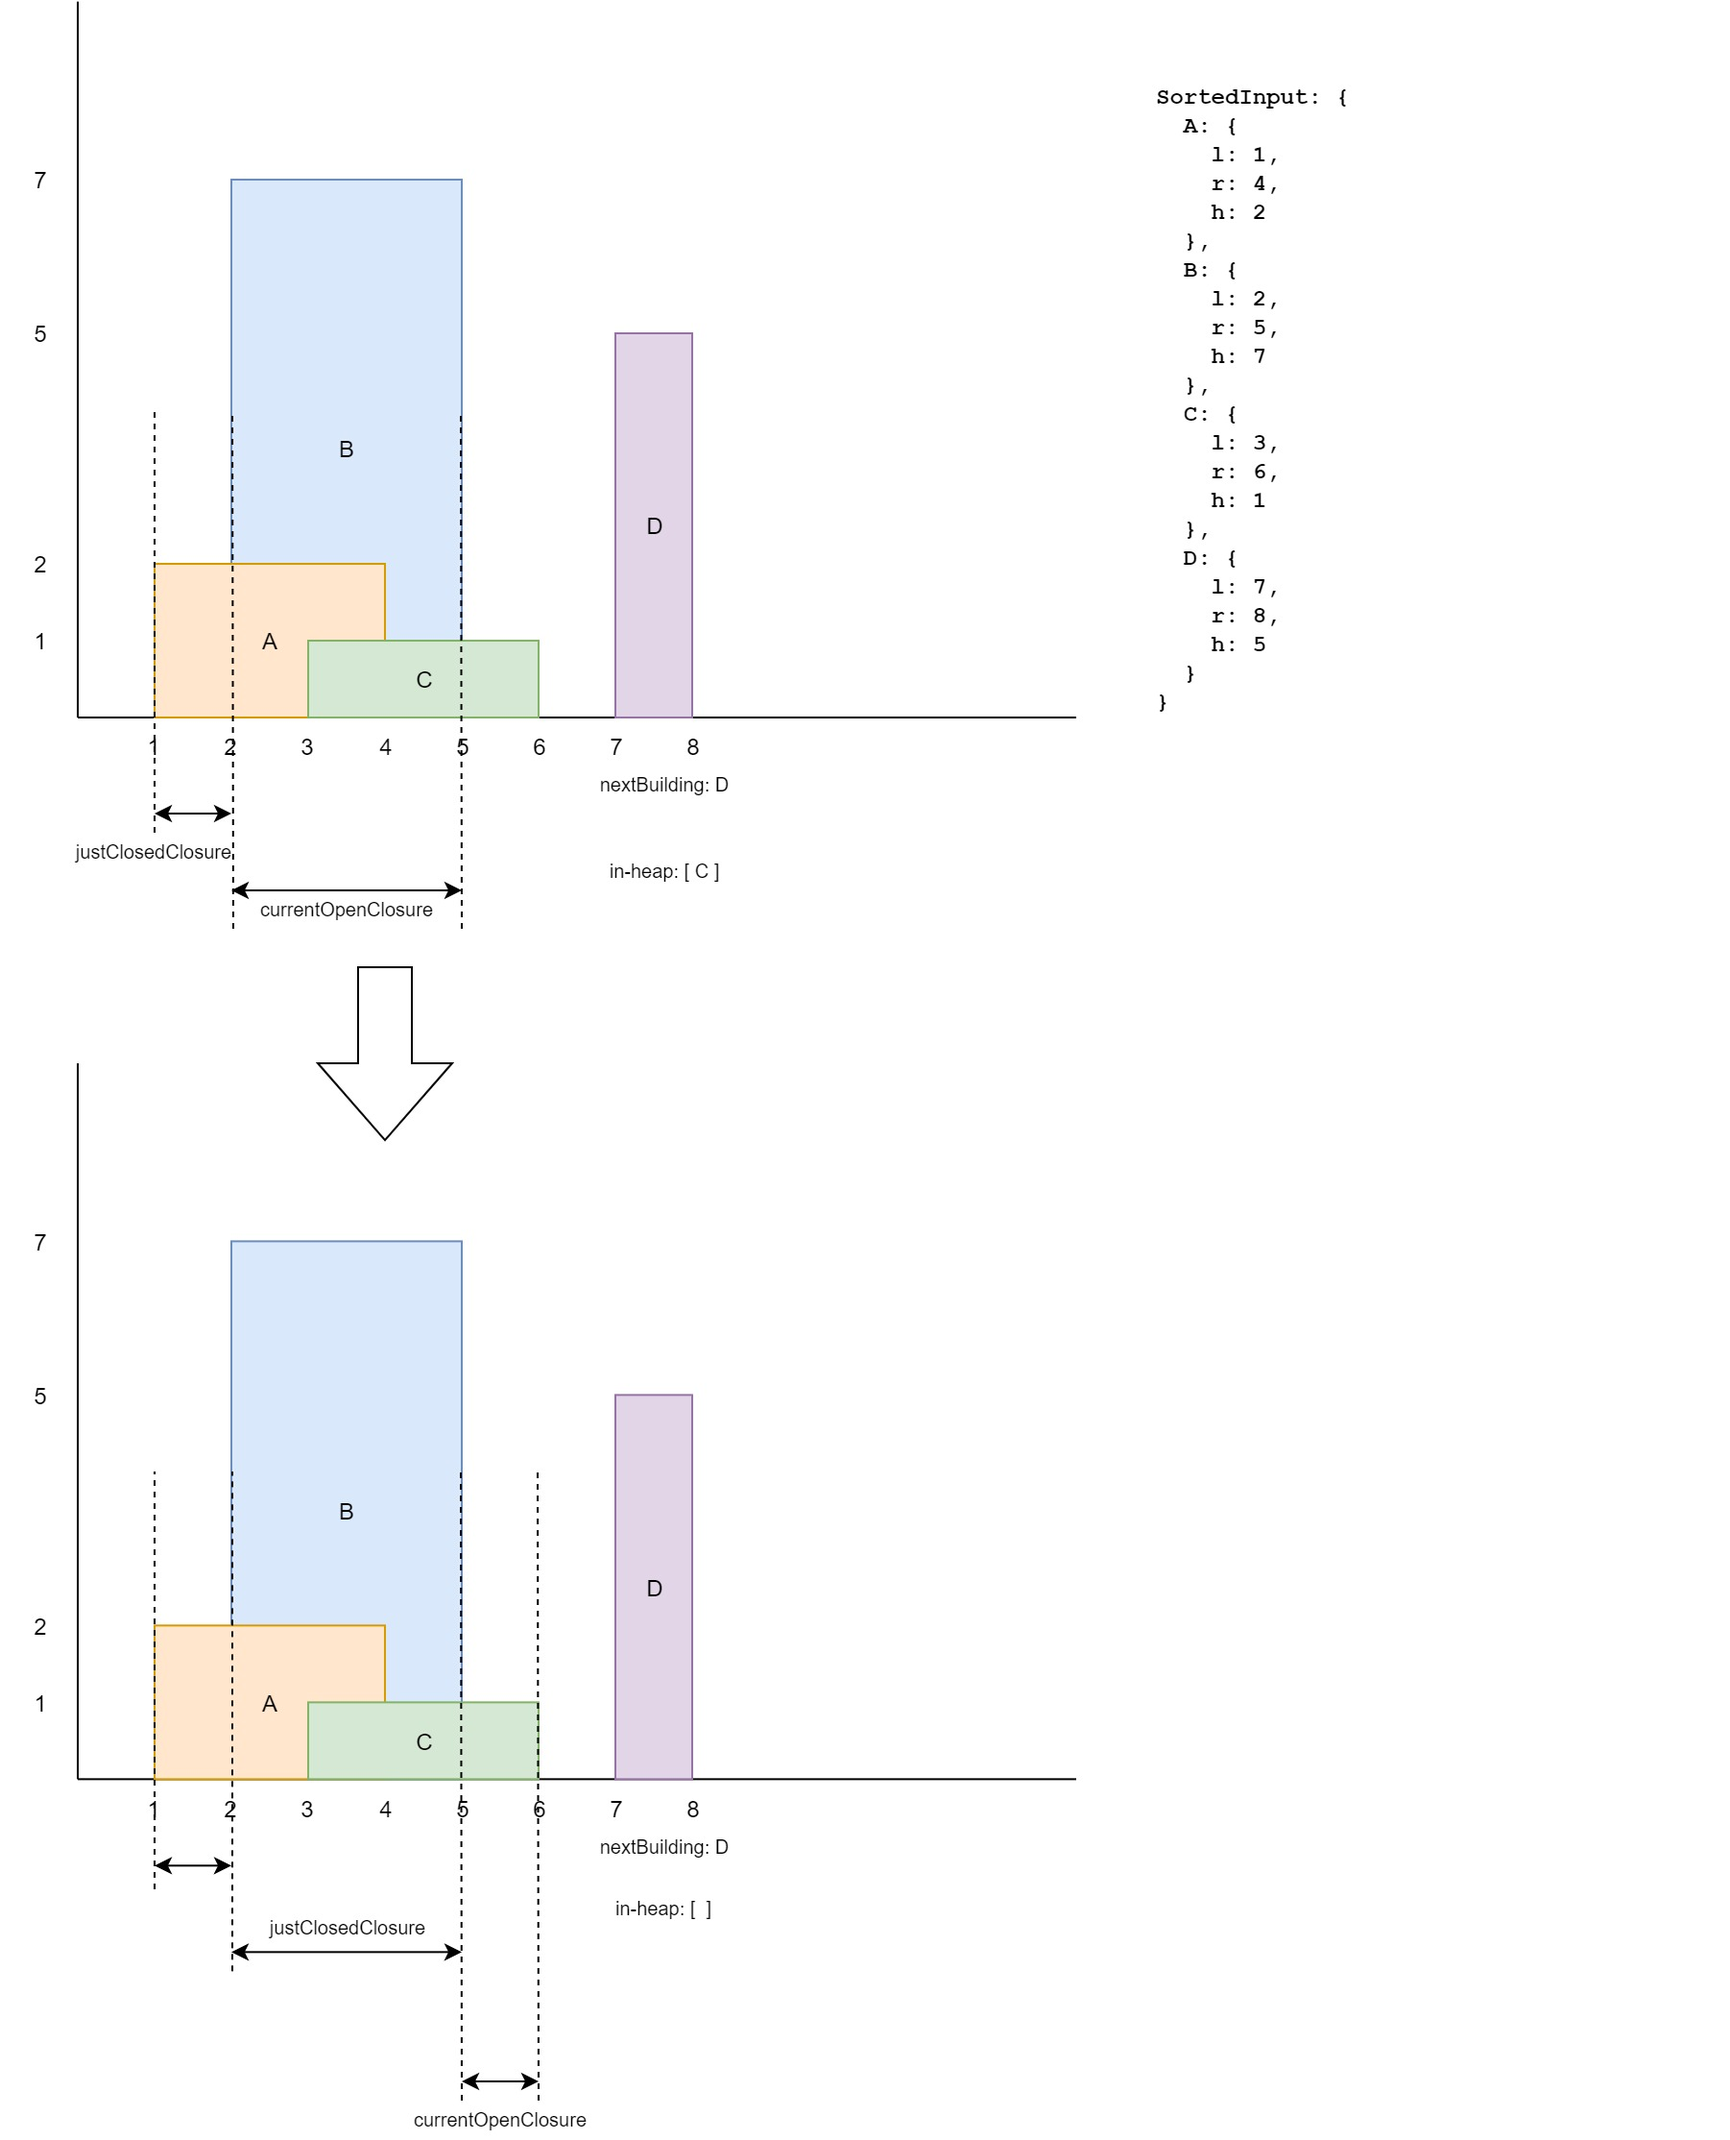
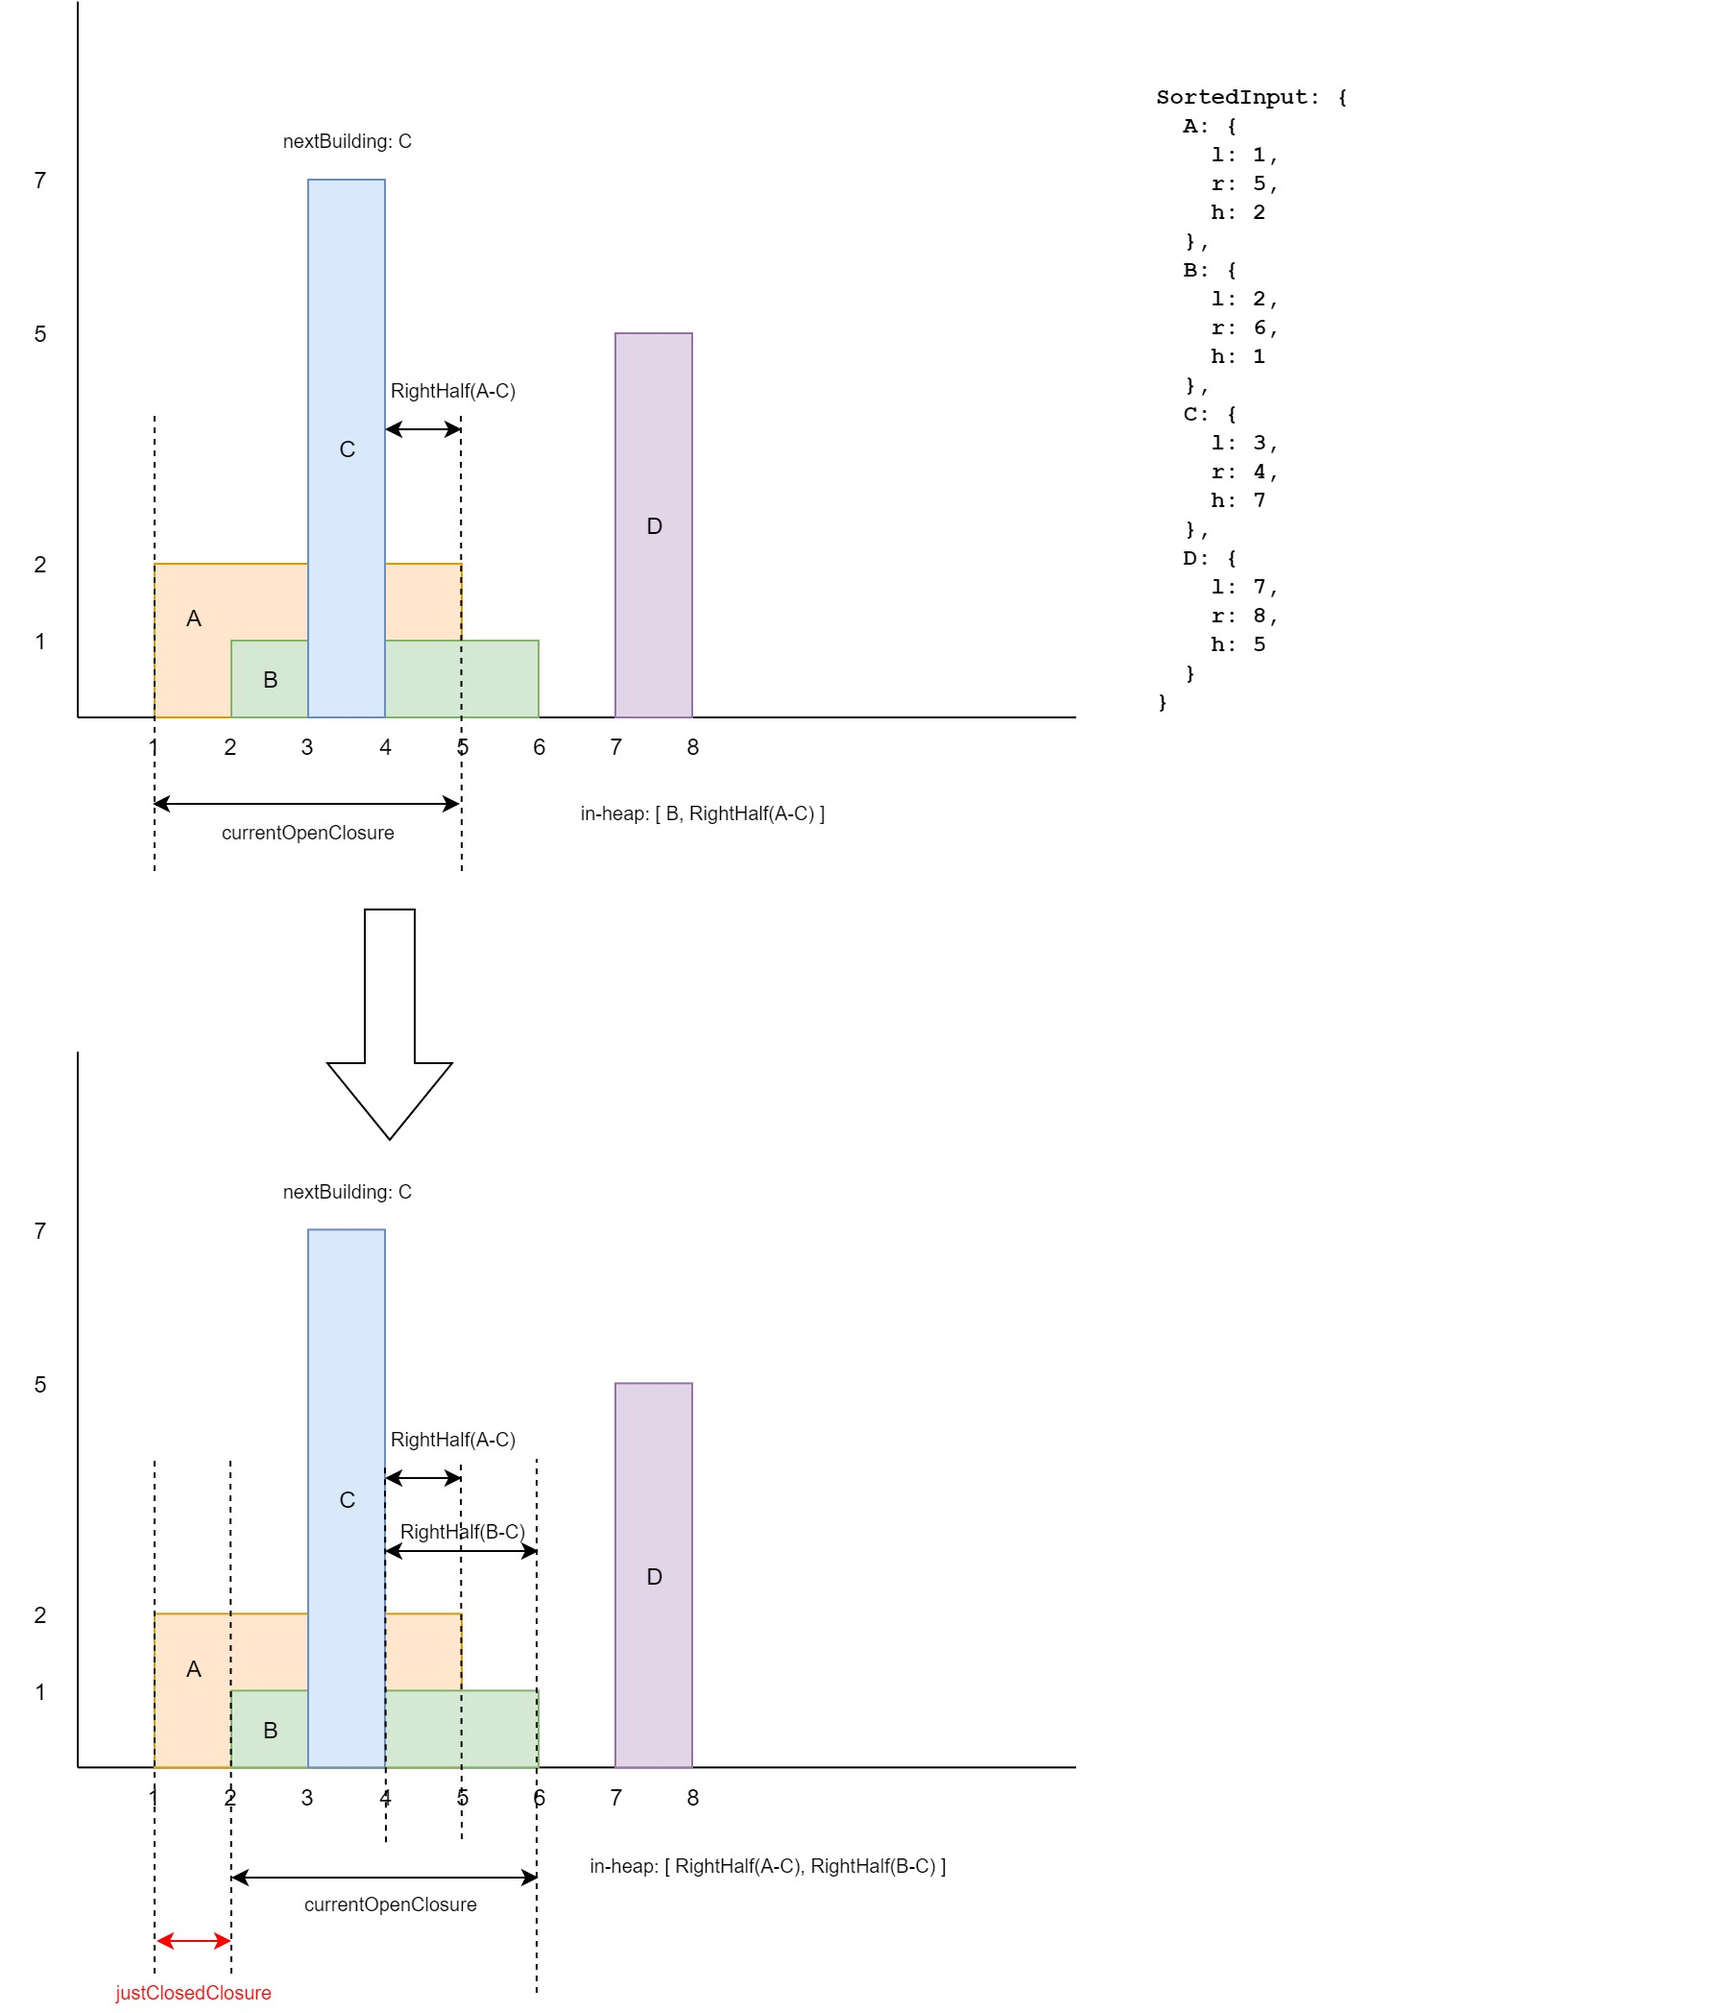
Fixes for "p218_The_Skyline_Problem".

diff --git a/p218_The_Skyline_Problem/submission_heap.cpp b/p218_The_Skyline_Problem/submission_heap.cpp
@@ -51,7 +51,7 @@ class Solution {
 public:
     bool extendOrClose(Building* pNextBuilding, Building &currentOpenClosure, vector<Building> &ansBuffer, priority_queue<Building, vector<Building>, BuildingCompareHeap> &pq) {
         
-        // Returns false if the same "pNextBuilding"(including NULL) should be re-evaluated for the updated "justClosedClosure" & "currentOpenClosure".
+        // Returns false if the same "pNextBuilding"(including NULL) should be re-evaluated for the updated "currentOpenClosure".
                
         if (INVALID == currentOpenClosure.l) {
             if (NULL != pNextBuilding) {
@@ -79,13 +79,23 @@ public:
                 if (nextBuilding.h > currentOpenClosure.h) {
                     // here comes a trick, after using "BuildingCompareVec", we've guaranteed that "nextBuilding.h > currentOpenClosure.h" during iteration, it must be true that "nextBuilding.l != currentOpenClosure.l", otherwise "nextBuilding" should've come earlier 
                     shouldCloseTheCurrentOpenClosure = true;
+                    Building snappedRightHalf; // the snapped right-half by "pNextBuilding"
+                    if (nextBuilding.r < currentOpenClosure.r) {
+                        snappedRightHalf.l = nextBuilding.r;
+                        snappedRightHalf.r = currentOpenClosure.r;
+                        snappedRightHalf.h = currentOpenClosure.h; 
+                        pq.push(snappedRightHalf); // see "test case #7"                       
+                    }
                 } else {
                     // nextBuilding.l <= currentOpenClosure.r && nextBuilding.h <= currentOpenClosure.h
                     if (nextBuilding.h == currentOpenClosure.h) {
                         shouldExtendTheCurrentOpenClosure = true;
                     } else {
                         // nextBuilding.l <= currentOpenClosure.r && nextBuilding.h < currentOpenClosure.h
-                        pq.push(nextBuilding);                            
+                        if (nextBuilding.r > currentOpenClosure.r) {
+                            // OTHERWISE not a valid candidate now, and won't be in later iterations
+                            pq.push(nextBuilding);                            
+                        }
                         return true;
                     }
                 }
@@ -96,13 +106,6 @@ public:
             return true;
         } else {
             if (shouldCloseTheCurrentOpenClosure) {
-                Building snappedRightHalf; // the snapped right-half by "pNextBuilding"
-                if (NULL != pNextBuilding && pNextBuilding->r < currentOpenClosure.r) {
-                    snappedRightHalf.l = pNextBuilding->r;
-                    snappedRightHalf.r = currentOpenClosure.r;
-                    snappedRightHalf.h = currentOpenClosure.h; 
-                }
-                
                 currentOpenClosure.r = (
                     NULL == pNextBuilding 
                     ? 
@@ -110,28 +113,37 @@ public:
                     : 
                     (currentOpenClosure.r < pNextBuilding->l ? currentOpenClosure.r : pNextBuilding->l) // snapped by higher building
                 );     
-                Building toPushClosure(currentOpenClosure.l, currentOpenClosure.r, currentOpenClosure.h);
-                //printf("Closed toPushClosure(l:%d, r:%d, h:%d)\n", toPushClosure.l, toPushClosure.r, toPushClosure.h);
-                ansBuffer.push_back(toPushClosure);
+                Building justClosedClosure(currentOpenClosure.l, currentOpenClosure.r, currentOpenClosure.h);
+                //printf("Finished justClosedClosure(l:%d, r:%d, h:%d)\n", justClosedClosure.l, justClosedClosure.r, justClosedClosure.h);
+                ansBuffer.push_back(justClosedClosure);
                 
                 currentOpenClosure.reset(); // would be init again by "rotation from pq item" or "next iteration"
                 
                 while (false == pq.empty()) {
                     Building nextOpenClosureCandidate = pq.top();
-                    if (NULL != pNextBuilding && (nextOpenClosureCandidate.h < pNextBuilding->h && nextOpenClosureCandidate.l >= pNextBuilding->l)) {
+                    //printf("\tevaluating nextOpenClosureCandidate(l:%d, r:%d, h:%d)\n", nextOpenClosureCandidate.l, nextOpenClosureCandidate.r, nextOpenClosureCandidate.h);
+                    
+                    if (NULL != pNextBuilding) {
                         // NOT a valid candidate now, but could be in later iterations, consider "test case #9"
-                        break;
+                        if (nextOpenClosureCandidate.l > pNextBuilding->l) {
+                            break;
+                        } 
+                        if (nextOpenClosureCandidate.l == pNextBuilding->l && nextOpenClosureCandidate.h < pNextBuilding->h) {
+                            break;
+                        }
                     }
+                    
                     pq.pop();
                     // recall that "item" in pq must suffice "item.l <= toPushClosure.r && item.h < toPushClosure.h"
                     
-                    //printf("\tevaluating nextOpenClosureCandidate(l:%d, r:%d, h:%d)\n", nextOpenClosureCandidate.l, nextOpenClosureCandidate.r, nextOpenClosureCandidate.h);
-                    if (nextOpenClosureCandidate.r <= toPushClosure.r) {
+                    if (nextOpenClosureCandidate.r <= justClosedClosure.r) {
                         // NOT a valid candidate now, and won't be in later iterations
+                        // It's CRITICAL to check this condition even if a similar condition was checked before pushing into "pq". See "test case#7".
                         continue;
                     }
+                    
                     // rotate "currentOpenClosure"
-                    nextOpenClosureCandidate.l = toPushClosure.r;
+                    nextOpenClosureCandidate.l = justClosedClosure.r;
                     //printf("\twill rotate currentOpenClosure by nextOpenClosureCandidate(l:%d, r:%d, h:%d)\n", nextOpenClosureCandidate.l, nextOpenClosureCandidate.r, nextOpenClosureCandidate.h);
 
                     currentOpenClosure.l = nextOpenClosureCandidate.l;
@@ -140,9 +152,6 @@ public:
                     break;
                 }
                 
-                if (INVALID != snappedRightHalf.l) {
-                    pq.push(snappedRightHalf); // [WARNING] "snappedRightHalf" must be push into heap AFTER THE LOTTERY, consider "test case #7"                         
-                }
                 return false;
             }
         }
@@ -173,7 +182,7 @@ public:
         [[2,9,10],[3,7,15],[3,8,16],[5,8,11],[5,12,12],[15,20,10],[19,24,8]]
         
         test case #7
-        [[6,100,41],[7,15,70]]
+        [[6,100,41],[10,30,102],[70,90,72],[85,120,59]]
 
         test case #8
         [[2,4,70],[3,8,30],[6,100,41],[7,15,70],[10,30,102],[15,25,76],[60,80,91],[70,90,72],[85,120,59]]
@@ -190,11 +199,6 @@ public:
             buildingList.push_back(item);
         }
         sort(buildingList.begin(), buildingList.end(), BuildingCompareVec());
-        /*
-        for (auto &b : buildingList) {
-            printf("\tb(l:%d, r:%d, h:%d)\n", b.l, b.r, b.h);
-        }
-        */
             
         Building currentOpenClosure, justClosedClosure;
         vector<Building> ansBuffer;
@@ -210,7 +214,16 @@ public:
         while(false == extendOrClose(NULL, currentOpenClosure, ansBuffer, pq));
         
         int prevSegR = INT_MAX;
-        for (auto single : ansBuffer) {
+        for (int i = 0; i < ansBuffer.size(); ++i) {
+            auto single = ansBuffer[i];
+            
+            if (i+1 < ansBuffer.size()) {
+                auto nextSingle = ansBuffer[i+1];
+                if (single.l == nextSingle.l) {
+                    continue;
+                }
+            }
+            
             if (single.l > prevSegR) {
                 ans.push_back({prevSegR, 0});
             }
